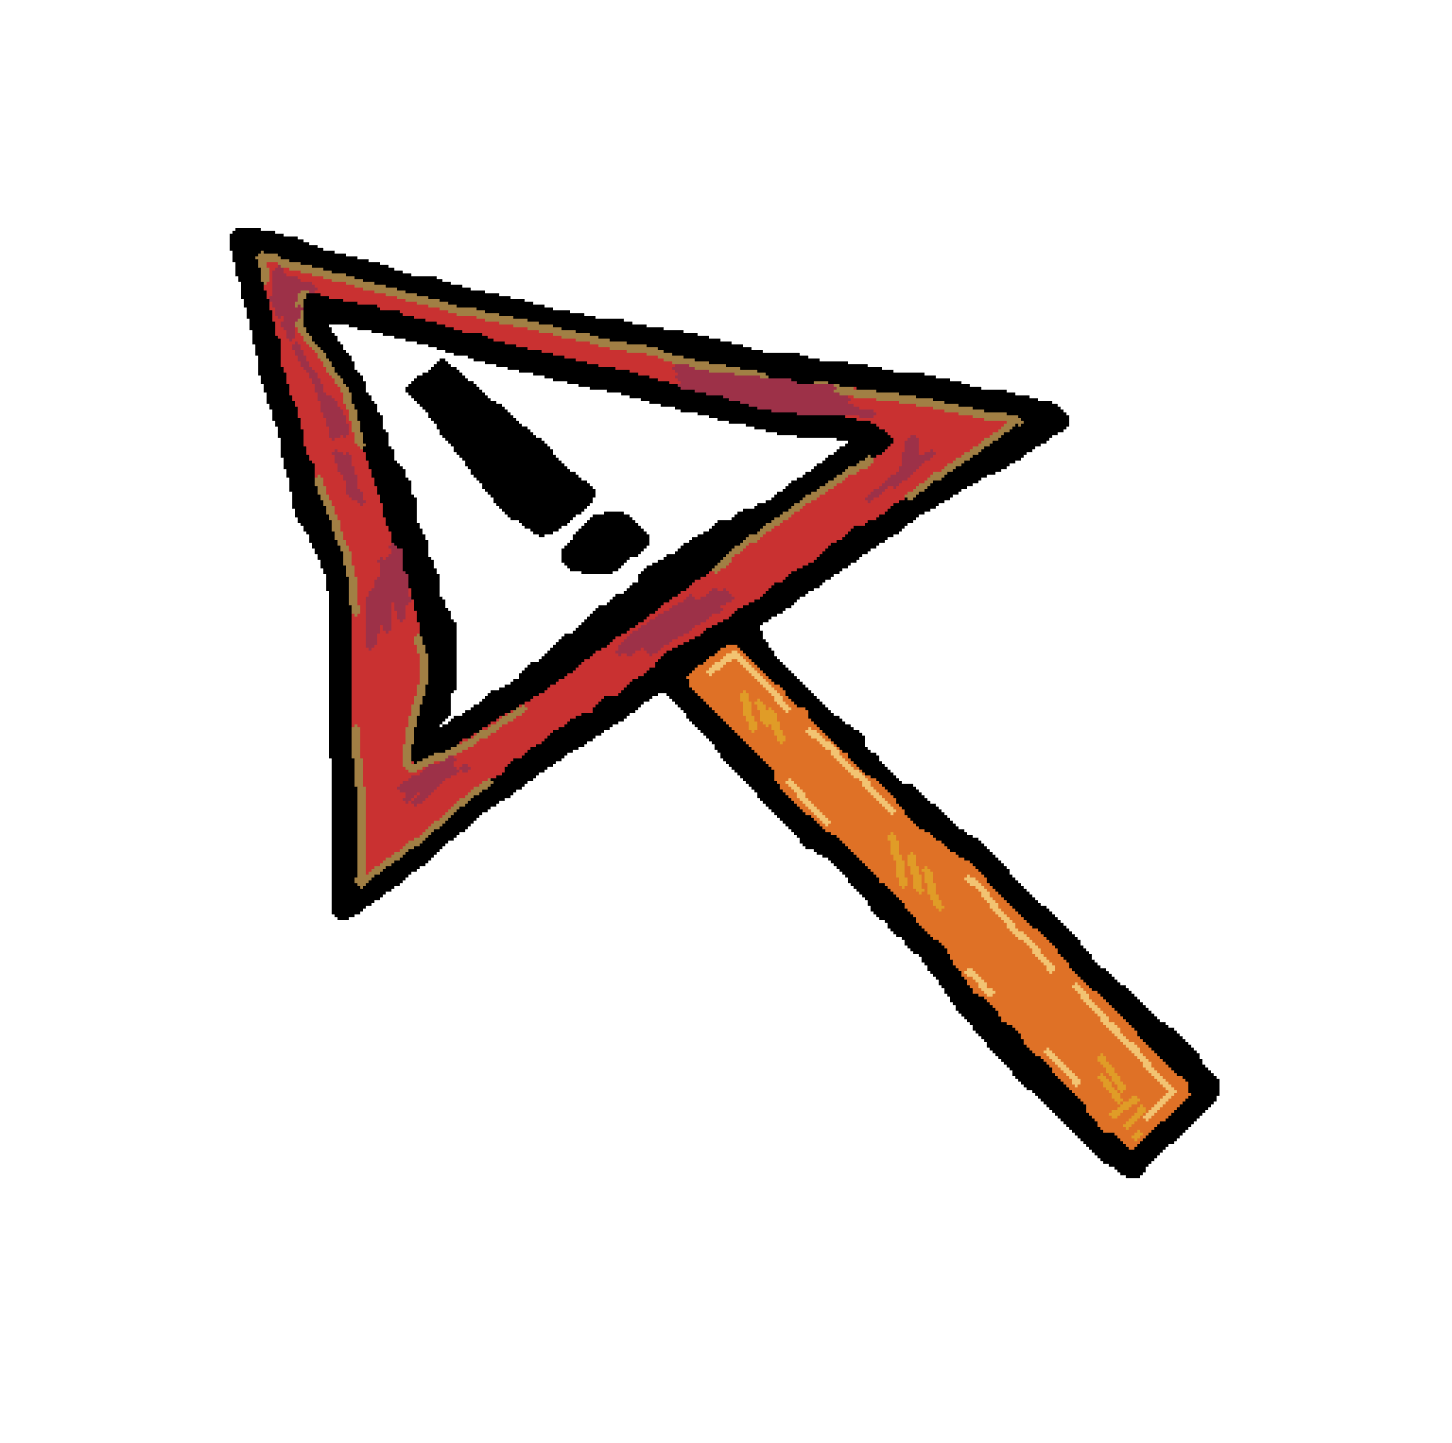
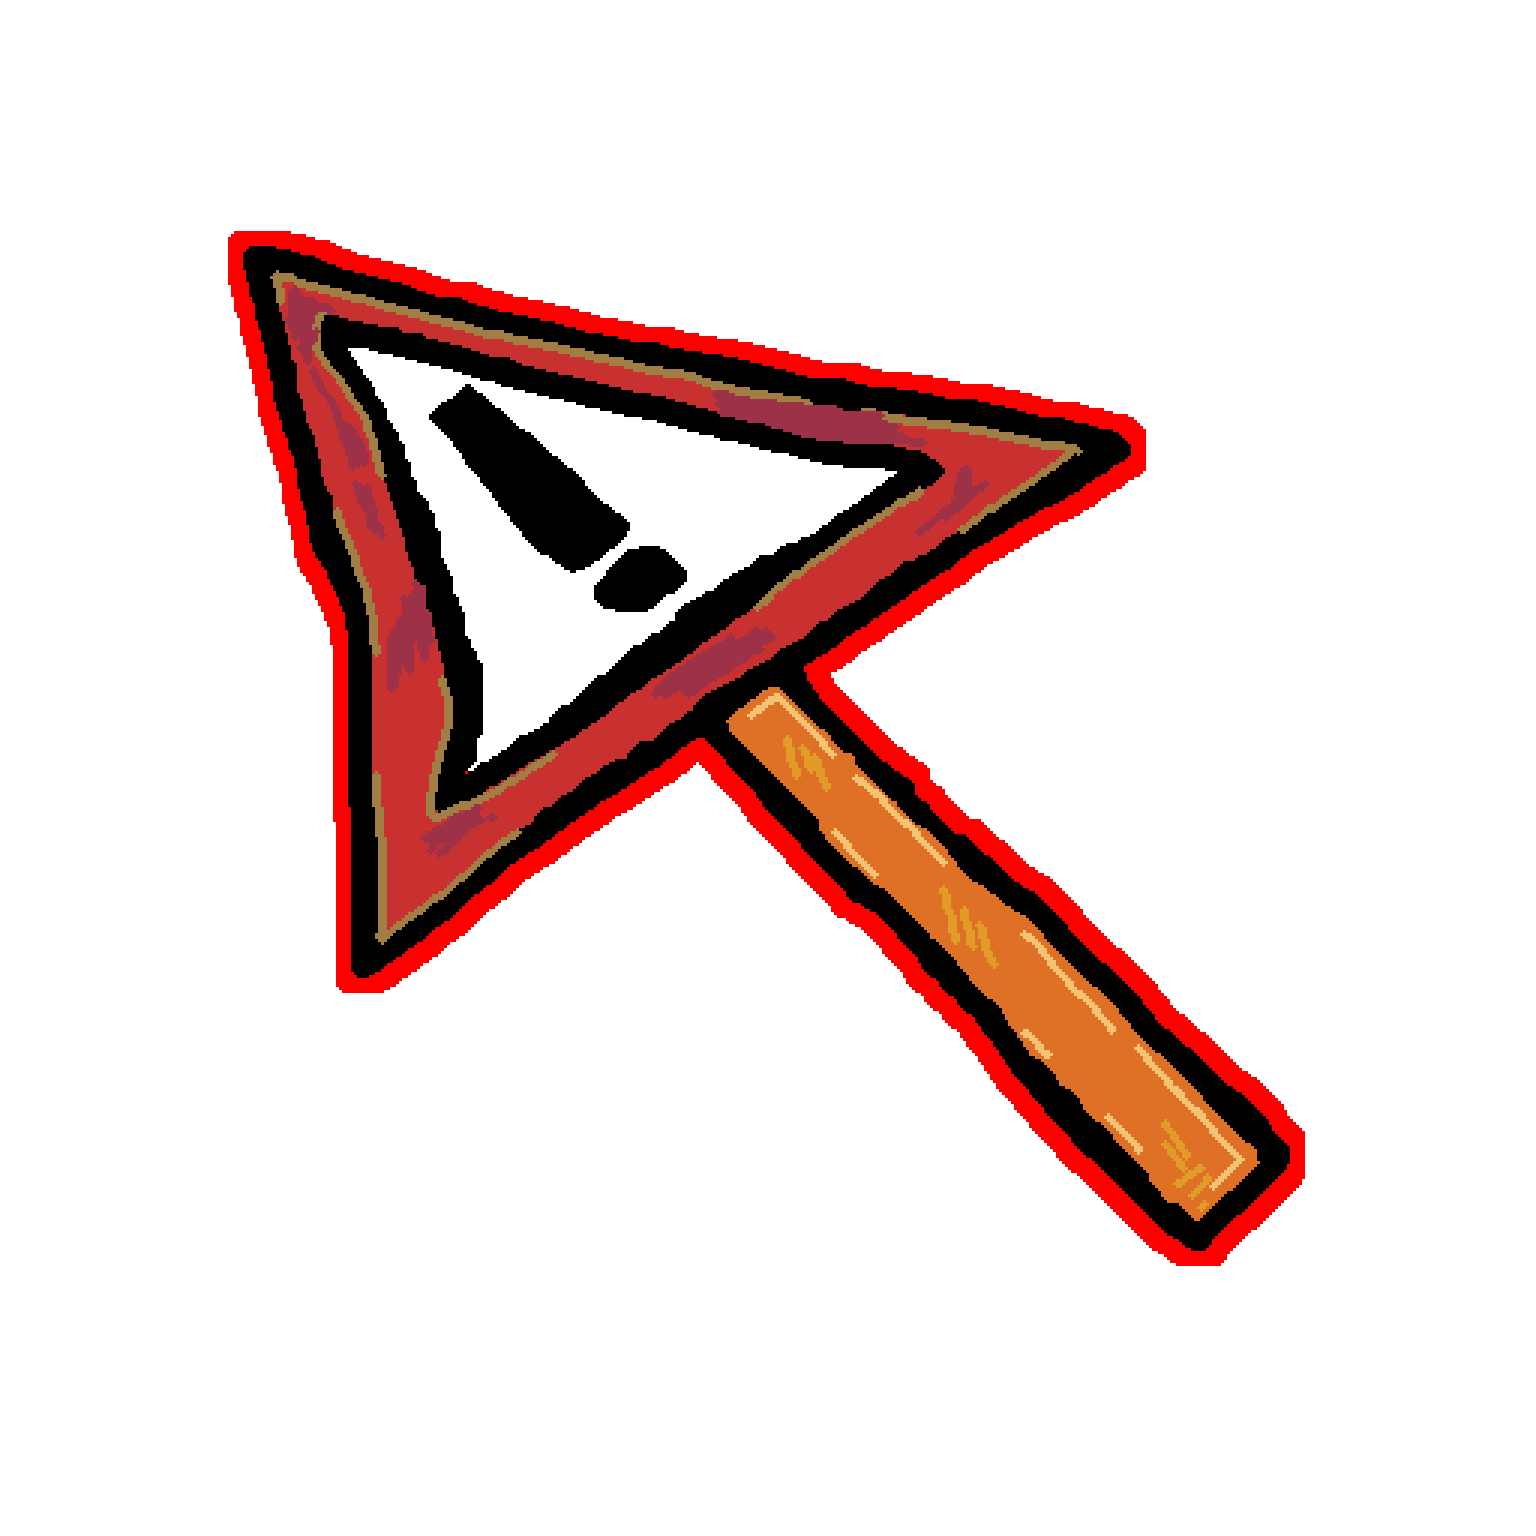
added some auras: WIP

diff --git a/normaldo_gaming/lib/game/components/figure_event_component.dart b/normaldo_gaming/lib/game/components/figure_event_component.dart
@@ -2,6 +2,7 @@ import 'dart:async';
 import 'dart:math';
 
 import 'package:flame/components.dart';
+import 'package:flame/extensions.dart';
 import 'package:normaldo_gaming/application/level/bloc/level_bloc.dart';
 import 'package:normaldo_gaming/domain/pull_up_game/items.dart';
 import 'package:normaldo_gaming/domain/pull_up_game/level/level.dart';
@@ -39,11 +40,11 @@ class FigureEventComponent extends PositionComponent with HasGameRef {
               item: Items.boombox, line: Random().nextInt(Utils.linesCount))
         ],
         [
-          const LineItem(item: Items.trashBin, line: 0),
-          const LineItem(item: Items.trashBin, line: 1),
-          const LineItem(item: Items.trashBin, line: 2),
-          const LineItem(item: Items.trashBin, line: 3),
-          const LineItem(item: Items.trashBin, line: 4),
+          const LineItem(item: Items.cone, line: 0),
+          const LineItem(item: Items.cone, line: 1),
+          const LineItem(item: Items.cone, line: 2),
+          const LineItem(item: Items.cone, line: 3),
+          const LineItem(item: Items.cone, line: 4),
         ]
       ],
       guardedPizza: () {
@@ -51,14 +52,14 @@ class FigureEventComponent extends PositionComponent with HasGameRef {
         return [
           [LineItem(item: Items.trashBin, line: firstLine)],
           [
-            LineItem(item: Items.trashBin, line: firstLine - 1),
+            LineItem(item: Items.cone, line: firstLine - 1),
             LineItem(item: Items.fatPizza, line: firstLine),
-            LineItem(item: Items.trashBin, line: firstLine + 1),
+            LineItem(item: Items.cone, line: firstLine + 1),
           ],
           [
-            LineItem(item: Items.trashBin, line: firstLine - 1),
-            LineItem(item: Items.trashBin, line: firstLine),
-            LineItem(item: Items.trashBin, line: firstLine + 1),
+            LineItem(item: Items.cone, line: firstLine - 1),
+            LineItem(item: Items.cone, line: firstLine),
+            LineItem(item: Items.cone, line: firstLine + 1),
           ],
         ];
       },
@@ -85,7 +86,7 @@ class FigureEventComponent extends PositionComponent with HasGameRef {
             livingPath.length,
             (columnIndex) => List.generate(Utils.linesCount, (index) {
                   if (index != livingPath[columnIndex]) {
-                    return LineItem(item: Items.trashBin, line: index);
+                    return LineItem(item: Items.cone, line: index);
                   }
                   if (columnIndex != eventLength - 1) {
                     return LineItem(item: Items.pizza, line: index);
@@ -112,7 +113,16 @@ class FigureEventComponent extends PositionComponent with HasGameRef {
       },
       bigBuddyBin: () {
         return [
-          [LineItem(item: Items.hugeItem, line: Random().nextInt(3))],
+          [
+            LineItem(
+                item: [
+                  Items.cone,
+                  Items.trashBin,
+                  Items.bird,
+                  Items.policeAlarm,
+                ].random(),
+                line: Random().nextInt(3))
+          ],
         ];
       },
       only2Lines: () {
@@ -139,7 +149,7 @@ class FigureEventComponent extends PositionComponent with HasGameRef {
           final list = List.generate(
               Utils.linesCount,
               (index) => LineItem(
-                    item: Items.trashBin,
+                    item: Items.cone,
                     line: index,
                   ));
           list.removeWhere((e) {
@@ -303,7 +313,7 @@ class FigureEventComponent extends PositionComponent with HasGameRef {
         for (final column in matrix) {
           final xOffset = matrix.indexOf(column);
           final columnPadding = xOffset *
-              (Items.trashBin.getSize(lineSize).x +
+              (Items.cone.getSize(lineSize).x +
                   (Random().nextInt(size.x ~/ 3).toDouble()));
           for (final item in column) {
             final itemSize = item.item.getSize(lineSize);

diff --git a/normaldo_gaming/lib/domain/pull_up_game/items.dart b/normaldo_gaming/lib/domain/pull_up_game/items.dart
@@ -225,7 +225,7 @@ enum Items {
       // case Items.fatPizza:
       //   return Vector2(lineSize * 0.8, lineSize * 0.8);
       case Items.homeless:
-        return Vector2(lineSize * 0.8, lineSize * 0.8);
+        return Vector2(lineSize, lineSize);
       case Items.moneyBag:
         return Vector2(lineSize / 2, lineSize / 2);
       case Items.boombox:

diff --git a/normaldo_gaming/lib/application/level/bloc/level_bloc.dart b/normaldo_gaming/lib/application/level/bloc/level_bloc.dart
@@ -15,7 +15,7 @@ part 'items_data.dart';
 
 class LevelBloc extends Bloc<LevelEvent, LevelState> {
   static const int limitProgressingLevel = 50;
-  static const double levelChangeDuration = 2;
+  static const double levelChangeDuration = 180;
 
   LevelBloc() : super(LevelState.initial()) {
     on<LevelEvent>((event, emit) => event.when(
